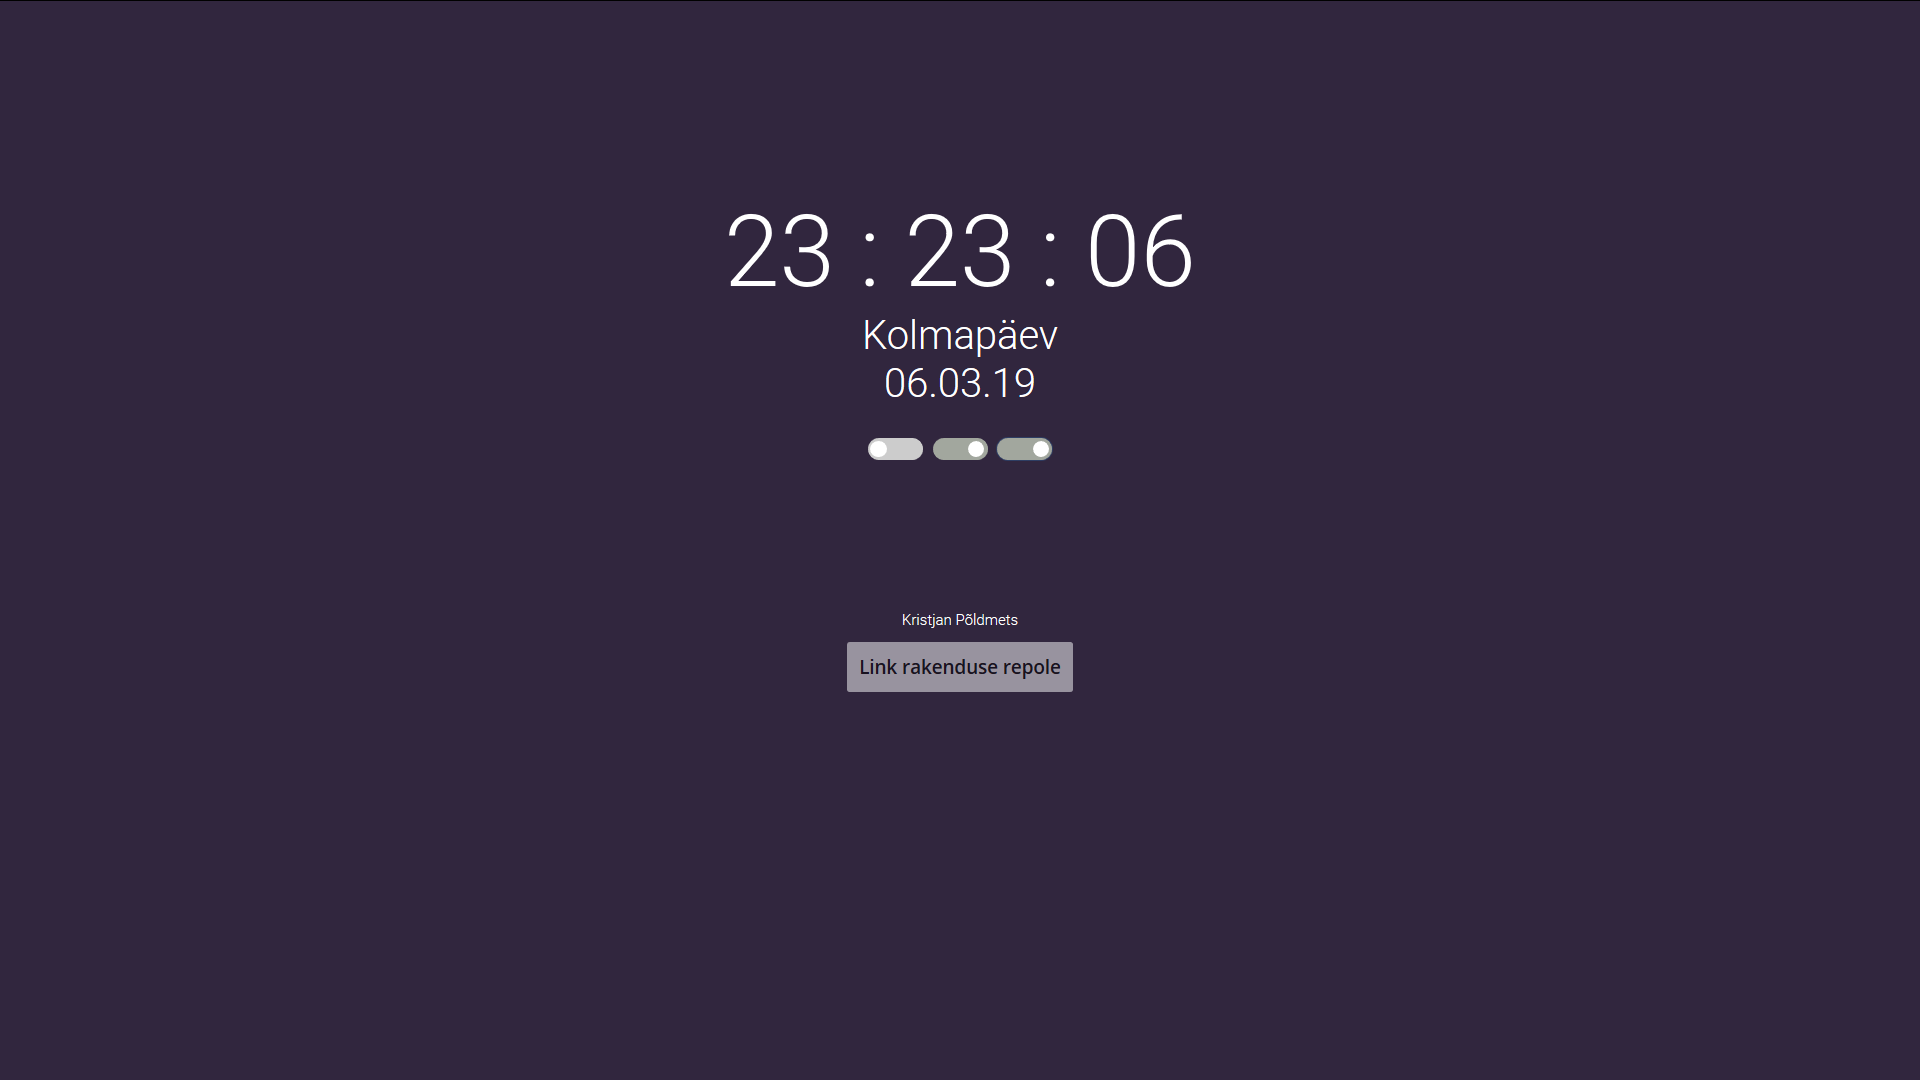
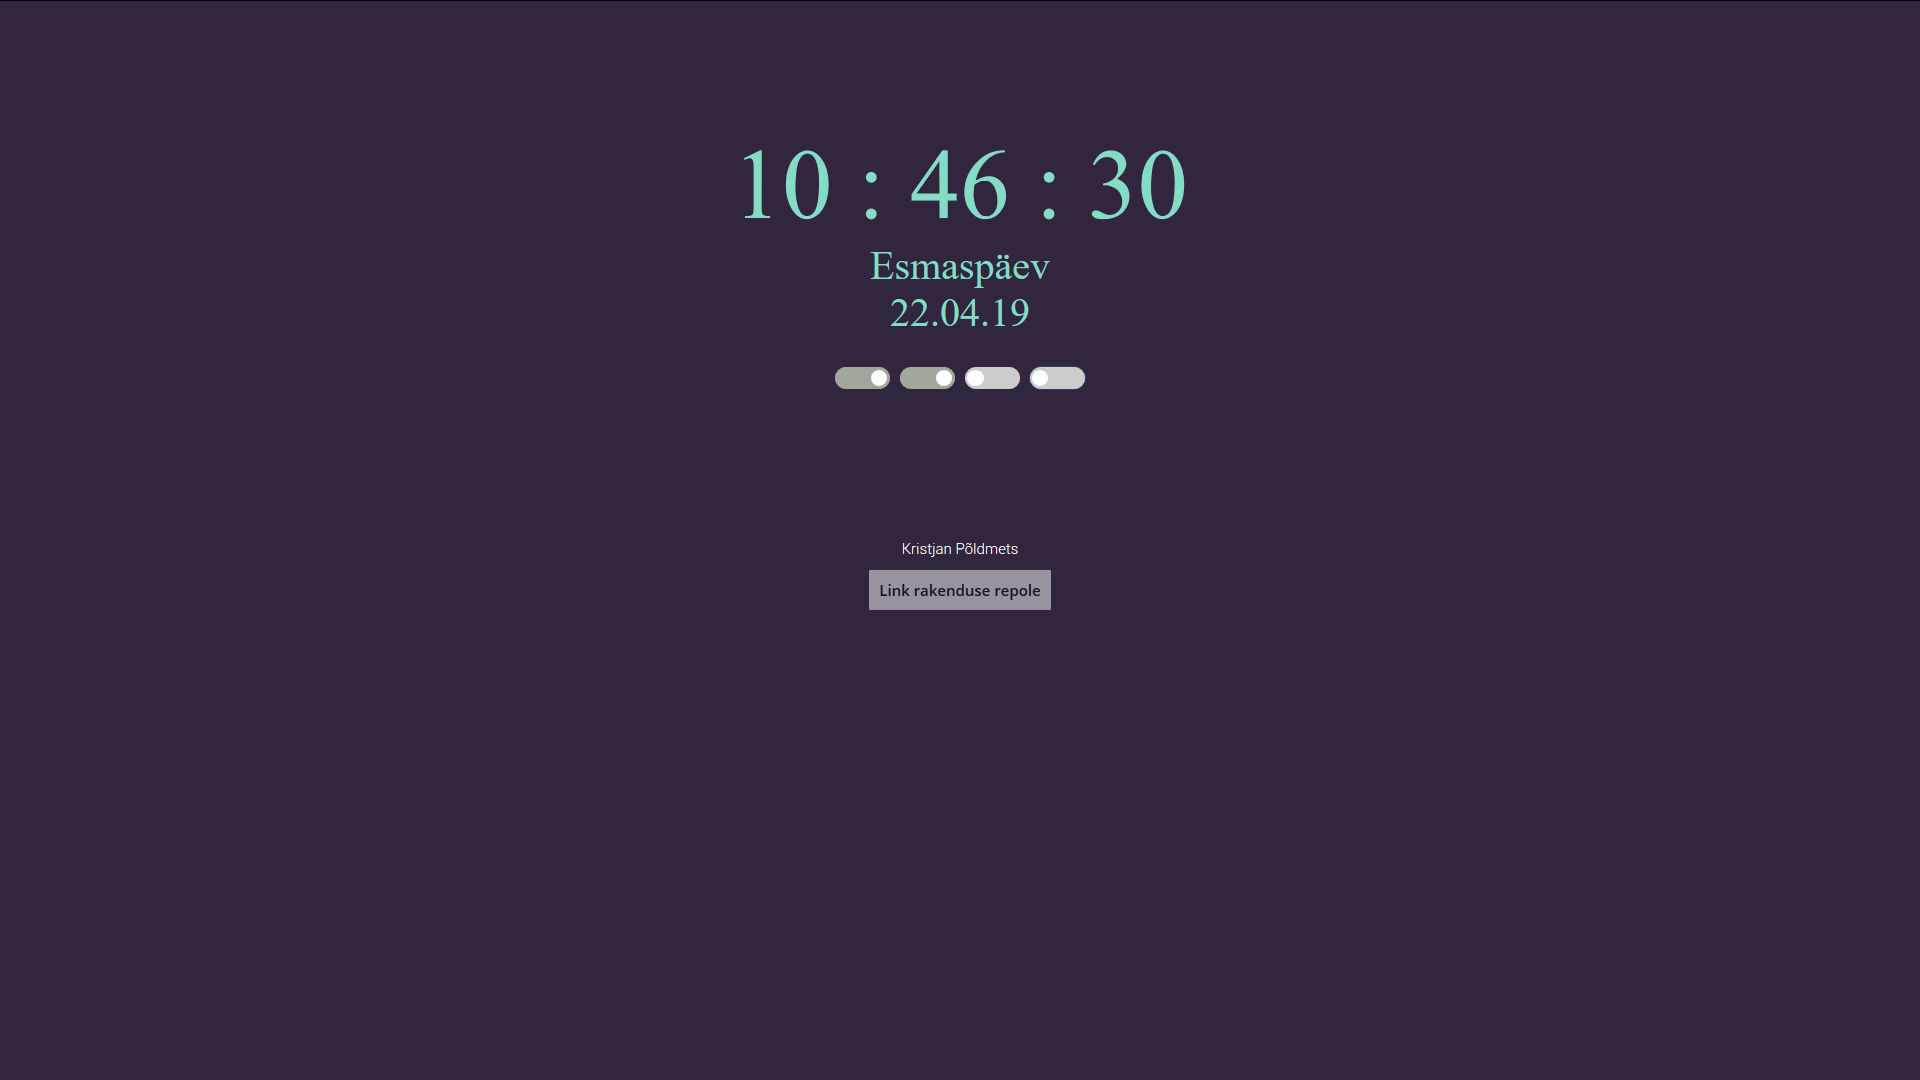
Uus funktsionaalsus

Changed region(s): [[0.375, 0.1222, 0.625, 0.3667], [0.4375, 0.4889, 0.5625, 0.6417], [0.4375, 0.3972, 0.5625, 0.4278]]

diff --git a/index.js b/index.js
@@ -45,10 +45,21 @@ function toggleSize(item){
 function toggleLoc(item){
    if(item.className == "on") {
       item.className="off";
-      document.body.style.backgroundColor = "#664147";
+      document.body.style.backgroundColor = "#31263e";
    } else {
       item.className="on";
-      document.body.style.backgroundColor = "#31263e";
+      document.body.style.backgroundColor = "#664147";
+
+   }
+}
+
+function toggleFont(item){
+   if(item.className == "on") {
+      item.className="off";
+      clockElementClass.style.fontFamily = "Roboto";
+   } else {
+      item.className="on";
+      clockElementClass.style.fontFamily = "Times New Roman";
 
    }
 }

diff --git a/index2.html b/index2.html
@@ -31,10 +31,14 @@
       <input type="checkbox" id="location" class="off" onclick="toggleLoc(this)" />
       <span class="slider round"></span>
     </label>
+    <label class="switch">
+      <input type="checkbox" id="location" class="off" onclick="toggleFont(this)" />
+      <span class="slider round"></span>
+    </label>
     <div class="footerClass">
       <div id="author">Kristjan Põldmets</div>
       <a href="http://greeny.cs.tlu.ee/~krispol/2019/Eesrakenduste_arendus/1kodutoo/">Link rakenduse repole</a>
     </div>
-  </div>  
+  </div>
 </body>
 </html>

diff --git a/style.css b/style.css
@@ -1,5 +1,5 @@
 body {
-  background: #664147;
+  background: #31263e;
   font-size: 200%;
   font-family: 'Roboto', sans-serif;
   color: #FFFFFF;

diff --git a/README.md b/README.md
@@ -1,4 +1,11 @@
 # 1kodutoo Kristjan Põldmets http://greeny.cs.tlu.ee/~krispol/2019/Eesrakenduste_arendus/1kodutoo/Kodut%c3%b6%c3%b6%20screenshot.png
+
+Kellarakenduses on 4 funktsionaalsust: Kella ja kuupäeva värvi muutus, kella ja kuupäeva suuruse muutus, taustavärvi muutus ning kella ja kuupäeva kirjašerifi muutus. Igale slaider tüüpi nupule rakendub eraldi lihtne funktsioon mis muudab css'i. Leht on responsive disainiga, muutudes kolmel erineval ekraani laiusel. Viisaka välimusega slaider tüüpi nupu css on leitud otse veebi näidisest
+
+Algselt tekkis probleeme js "camelcase" tüüpi lausete koostamisel.
+
+#---------------------------------------------------------------------------------------------------------------------------------------------------------------------------------------------------------
+
 1. kodutöö Eesrakenduste arendamises.
 
 ## Tähtaeg 06.03.2018 23:59
